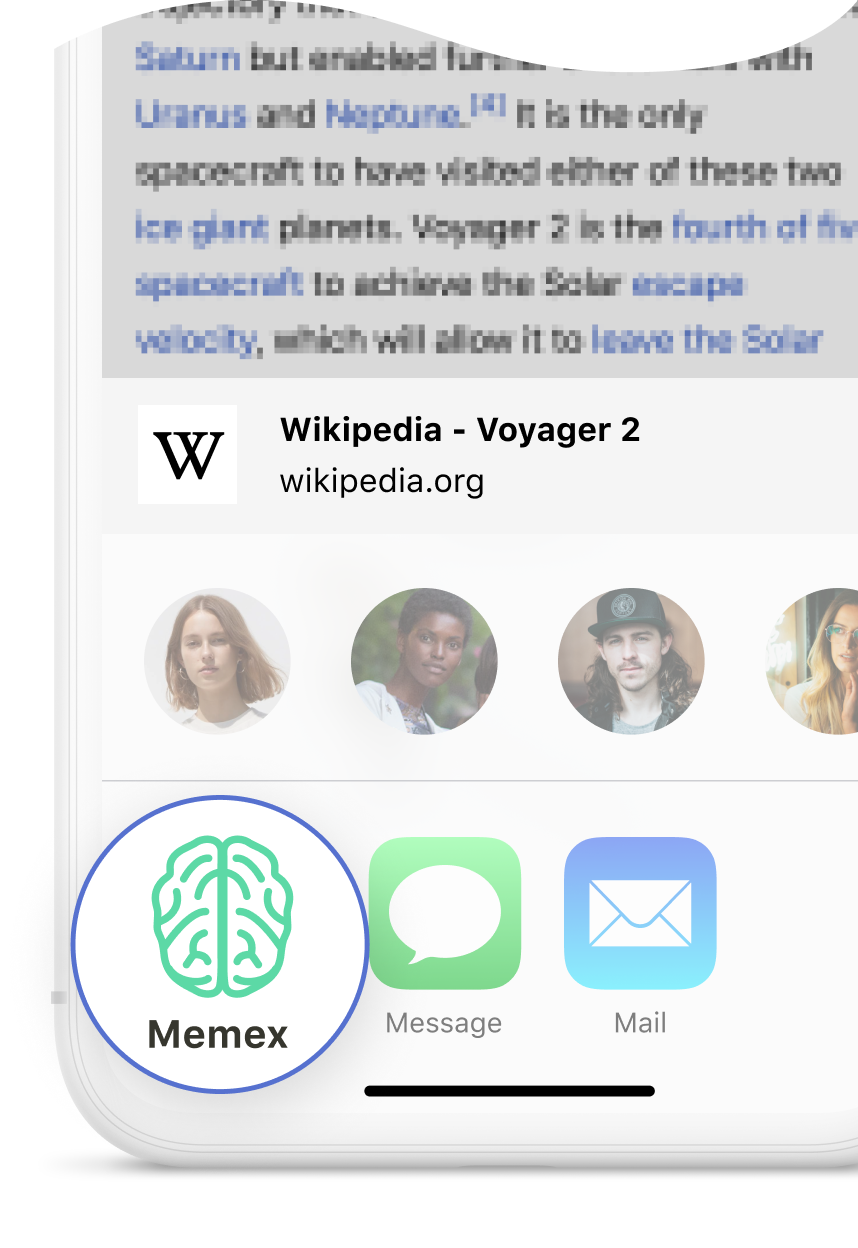
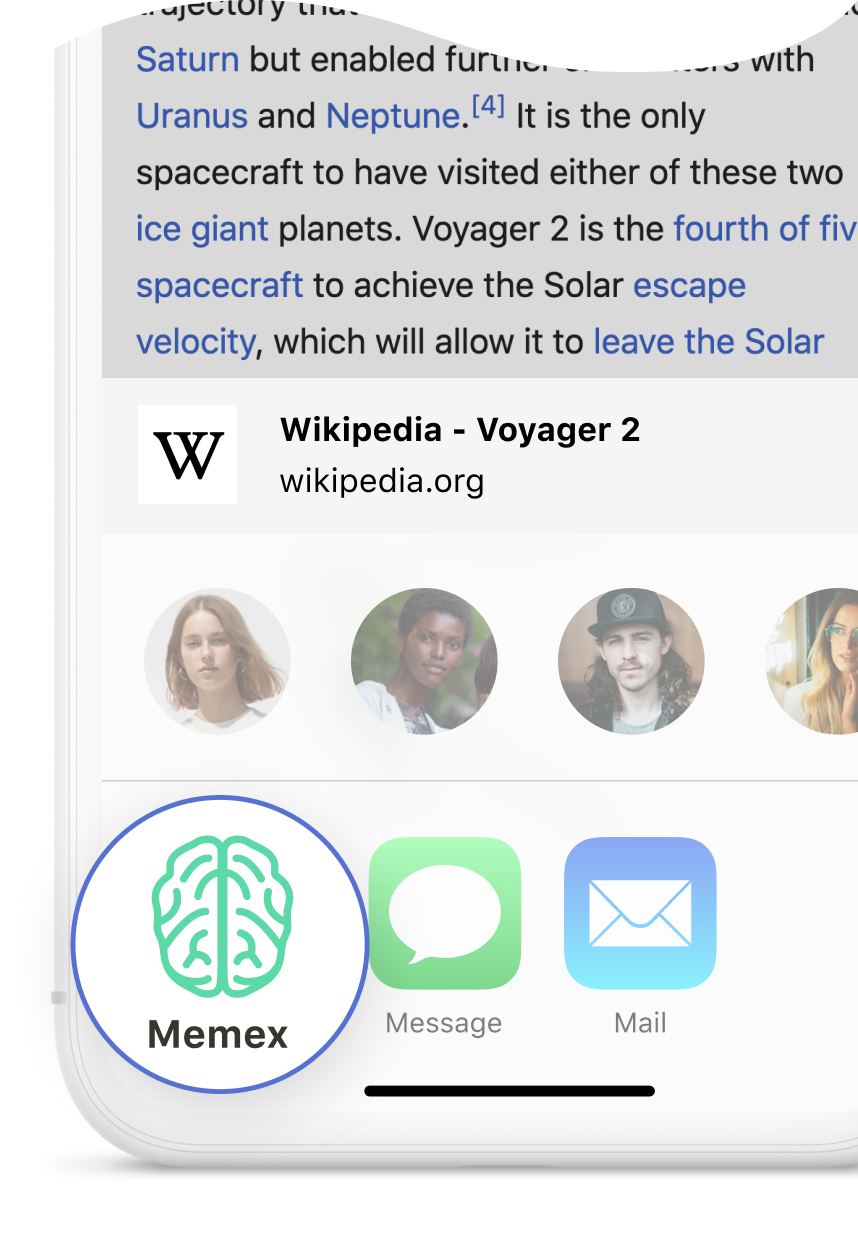
remove the version number from the settings menu and fix the screenshots

Changed region(s): [[0.1515, 0.0, 1.0, 0.3125], [0.8182, 0.0312, 0.9697, 0.0625], [0.9697, 0.0, 1.0, 0.0312]]

diff --git a/app/src/features/overview/ui/screens/mvp-overview/index.tsx b/app/src/features/overview/ui/screens/mvp-overview/index.tsx
@@ -122,7 +122,6 @@ export default class MVPOverviewMenu extends NavigationScreen<
                     </View>
                 </View>
                 <View style={styles.footer}>
-                    <Text style={styles.versionText}>Version {version}</Text>
                     <Text
                         style={styles.versionText}
                         onPress={this.handleConsolePress}

diff --git a/app/src/features/settings-menu/ui/components/settings-menu.tsx b/app/src/features/settings-menu/ui/components/settings-menu.tsx
@@ -35,7 +35,6 @@ const SettingsMenu: React.StatelessComponent<Props> = props => (
                     onPress={props.onDevicePairedPress}
                 />
             )}
-            <Text style={styles.versionText}>Version {props.versionCode}</Text>
         </View>
     </View>
 )
